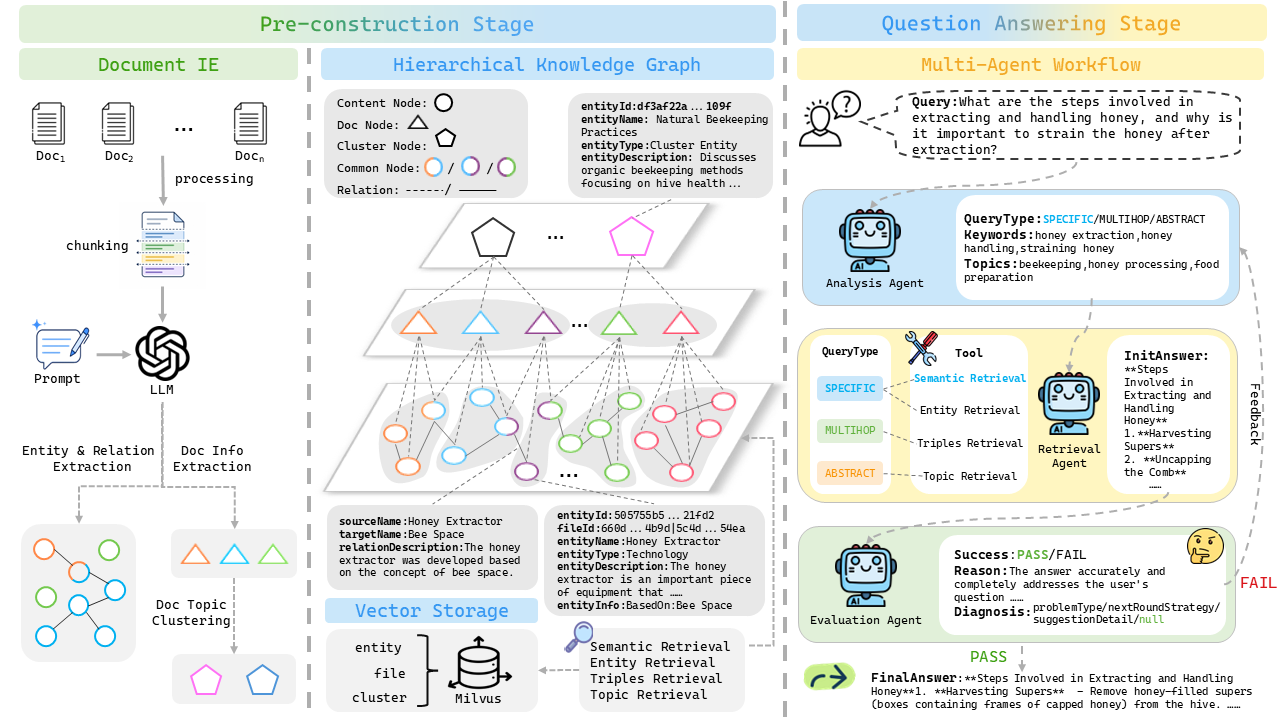
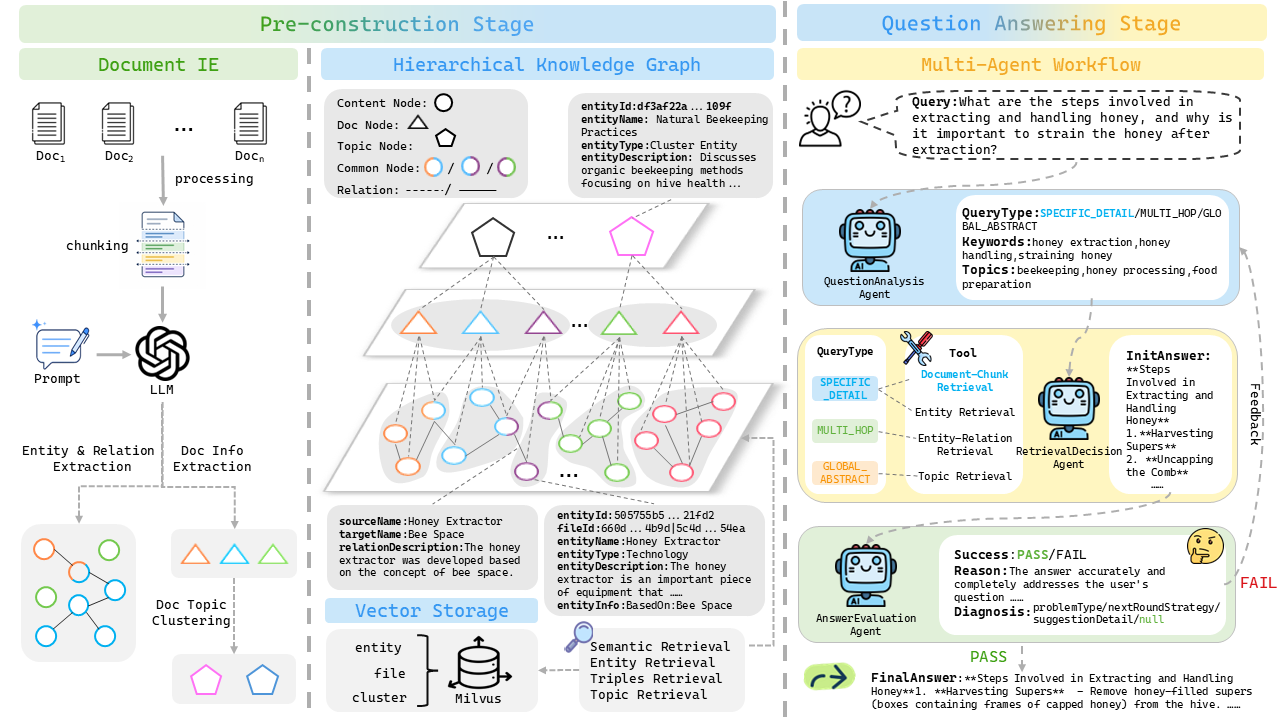
3.0版本 (1)readme-en

diff --git a/README.md b/README.md
@@ -1,4 +1,4 @@
-````markdown
+
 # HKG-RAG
 
 **HKG-RAG** (Hierarchical Knowledge Graph with Retrieval-Augmented Generation) is a retrieval-augmented question-answering framework designed for private-domain documents, integrating **hierarchical knowledge graphs, multi-granularity retrieval, and multi-agent collaboration**.
